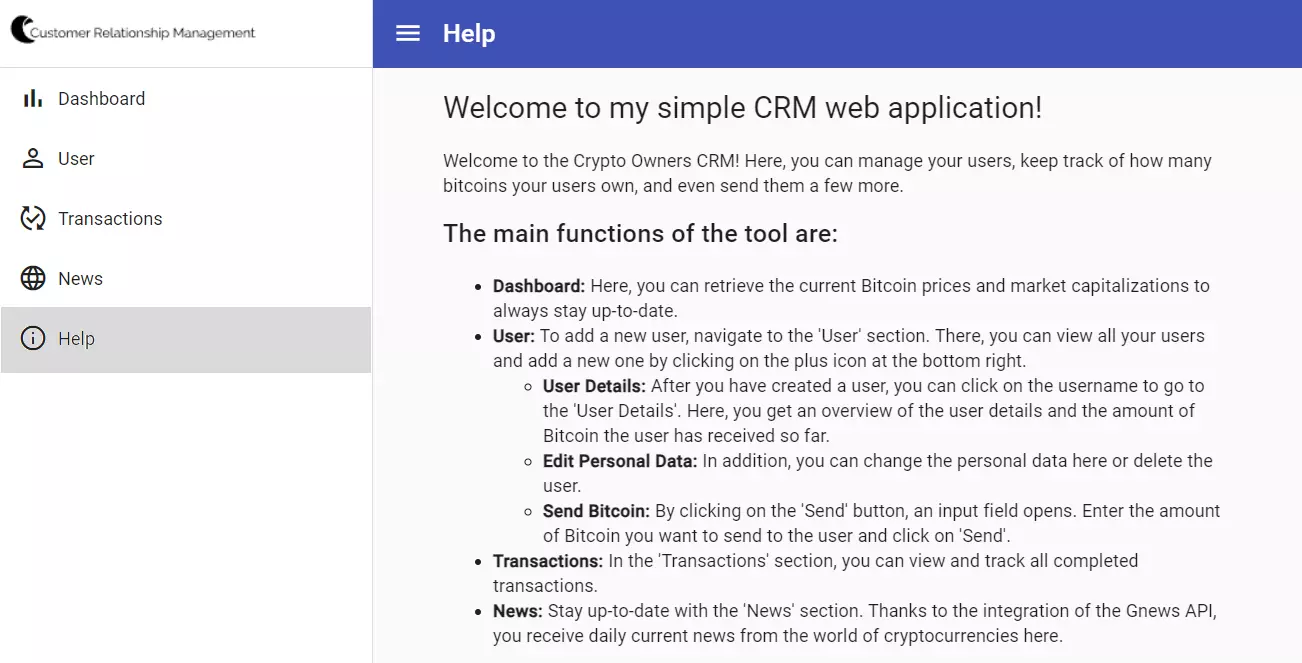
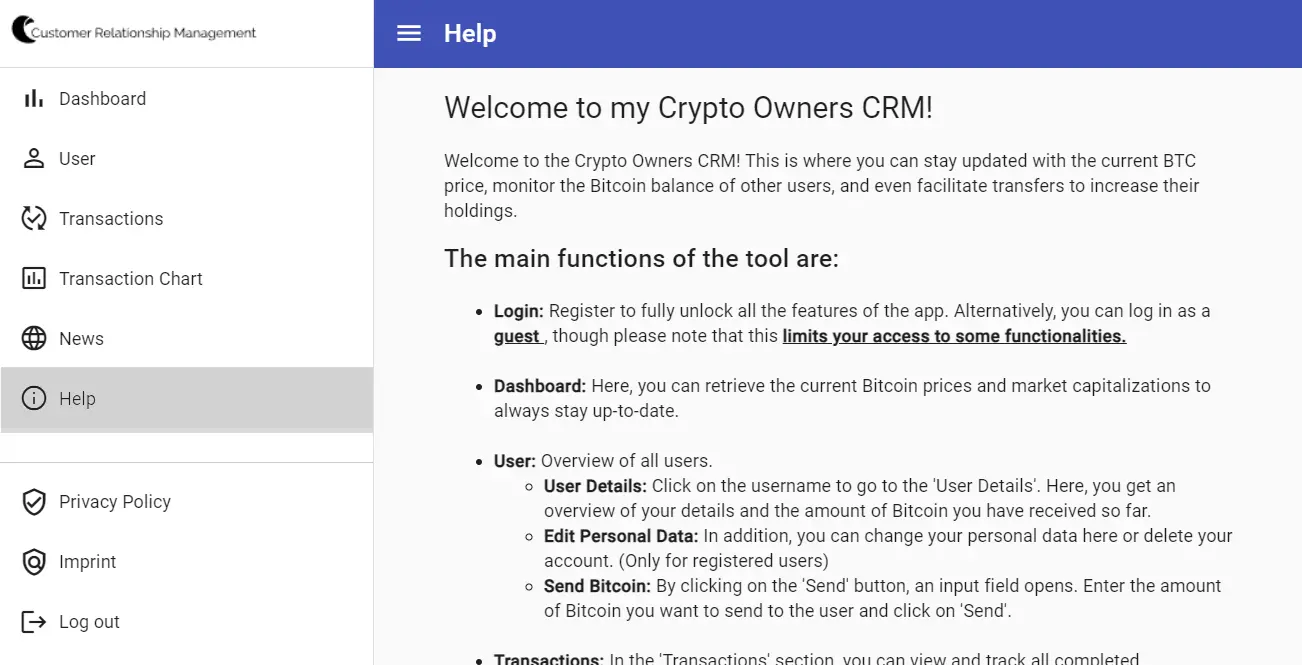
responsive

diff --git a/src/app/tutorial.service.ts b/src/app/tutorial.service.ts
@@ -20,8 +20,13 @@ export class TutorialService {
     },
     {
       title: 'Login',
-      img: 'lets-go.webp',
-      description: 'Register to fully unlock all the features of the app. Alternatively, you can log in as a guest , though please note that this limits your access to some functionalities.',
+      img: 'signUp.webp',
+      description: 'Register and login to fully unlock all the features of the app. Alternatively, you can log in as a guest, though please note that this limits your access to some functionalities.',
+    },
+    {
+      title: 'Guest Login',
+      img: 'guest-login.webp',
+      description: 'Alternatively, you can log in as a guest, though please note that this limits your access to some functionalities.',
     },
     {
       title: 'Dashboard',
@@ -29,23 +34,18 @@ export class TutorialService {
       description: 'Here you can retrieve the current Bitcoin prices and market capitalizations to stay up to date.'
     },
     {
-      title: 'User',
-      img: 'add-user.webp',
+      title: 'Users',
+      img: 'users.webp',
       description: 'Overview of all users.'
     },
     {
       title: 'User',
-      img: 'openuser.webp',
+      img: 'open-user.webp',
       description: 'You can click on the username to go to the \'User Details\'.'
     },
     {
-      title: 'Search',
-      img: 'openuser.webp',
-      description: 'Utilize the search bar to find specific users or transactions.'
-    },
-    {
       title: 'User Detail',
-      img: 'user-detail.webp',
+      img: 'user-details.webp',
       description: ' Here, you get an overview of your details and the amount of Bitcoin you have received so far.'
     },
     {
@@ -54,14 +54,14 @@ export class TutorialService {
       description: 'You can change your personal data here.'
     },
     {
-      title: 'Delete the User',
+      title: 'Delete User',
       img: 'delete-user.webp',
       description: 'Or delete your account. (Only for registered users)'
     },
     {
       title: 'Send Bitcoins',
       img: 'send-bitcoin.webp',
-      description: ' Click on the \'Send\' button at the bottom right to perform a transaction.'
+      description: 'If you go to another user, you can click on the \'Send\' button at the bottom right to perform a transaction.'
     },
     {
       title: 'Send Bitcoins',
@@ -70,12 +70,12 @@ export class TutorialService {
     },
     {
       title: 'Transactions',
-      img: 'transaction1.webp',
+      img: 'transactions.webp',
       description: 'In the \'Transactions\' section, you can review and follow every completed transaction, observing both the sender and the receiver.'
     },
     {
       title: 'Transaction Chart',
-      img: 'transaction1.webp',
+      img: 'transaction-chart.webp',
       description: 'Each user\'s Bitcoin balance is neatly displayed in a chart.'
     },
     {
@@ -87,6 +87,11 @@ export class TutorialService {
       title: 'Help',
       img: 'help.webp',
       description: 'Navigate to the Help section anytime you need an overview of the functionalities of this app.'
+    },
+    {
+      title: 'Log Out',
+      img: 'log-out.webp',
+      description: 'Simply click on \'Log Out\' to log out of the page.'
     },
     {
       title: 'Congratulations!',
